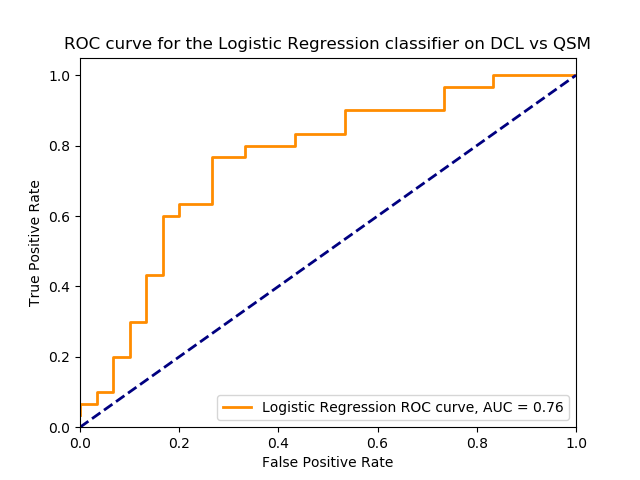
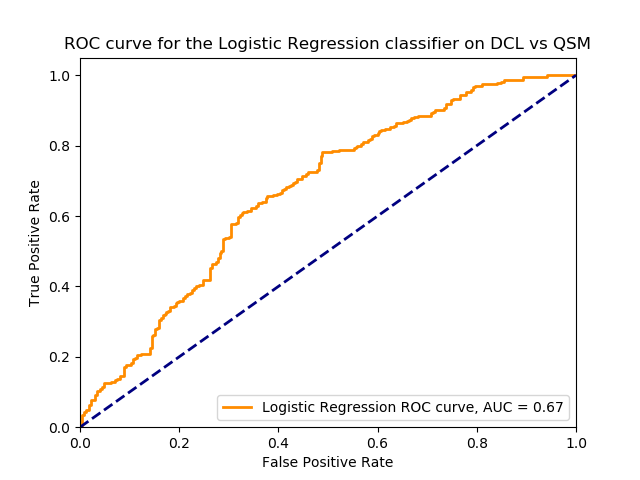
Bug fix on ROC curve and fixed image. Added documentation.

diff --git a/classificators.py b/classificators.py
@@ -4,7 +4,7 @@
 from sklearn import linear_model
 from sklearn.model_selection import KFold
 from sklearn.metrics import roc_curve, auc
-from numpy import ones, asarray
+from numpy import ones, array
 import matplotlib.pyplot as plt
 
 
@@ -16,7 +16,10 @@ def run_crossvalidation_with_ROC(func):
     The output of the function (final_score) is not obtained doing a mean of
     all scores. It is the factor given by the number of patients who scored
     more than 0.5 divided by the total number of patients.
-    This decorator also plots the ROC curve for the classifier
+    This decorator also plots the ROC curve for the classifier.
+
+    The ROC curve is best explained here:
+    https://ifisc.uib-csic.es/media/publications/publication/YSaJSPqST-2EdKQ1O2_-Nw.pdf
     """
     def func_wrapper(dataset, targets):
         splits = int(input("How many patients are in the dataset?\n"))
@@ -31,12 +34,14 @@ def run_crossvalidation_with_ROC(func):
                                                   dataset[test_index],
                                                   targets[test_index])
             scores.append(scored)
-            y_test.append(targets[test_index][0])
-            y_score.append(decision[0])
+            y_test.append(list(targets[test_index]))
+            y_score.append(list(decision))
             print(str(test_index) + " - " + str(prediction)+" - " +
                   "Scored " + str(scored))
+        y_test = list(array(y_test).ravel())
+        y_score = list(array(y_score).ravel())
         final_score = list(scores > ones(splits)*0.5).count(True) / splits
-        fpr, tpr, thresholds = roc_curve(asarray(y_test), asarray(y_score))
+        fpr, tpr, thresholds = roc_curve(array(y_test), array(y_score))
         roc_auc = auc(fpr, tpr)
         plt.figure()
         lw = 2
